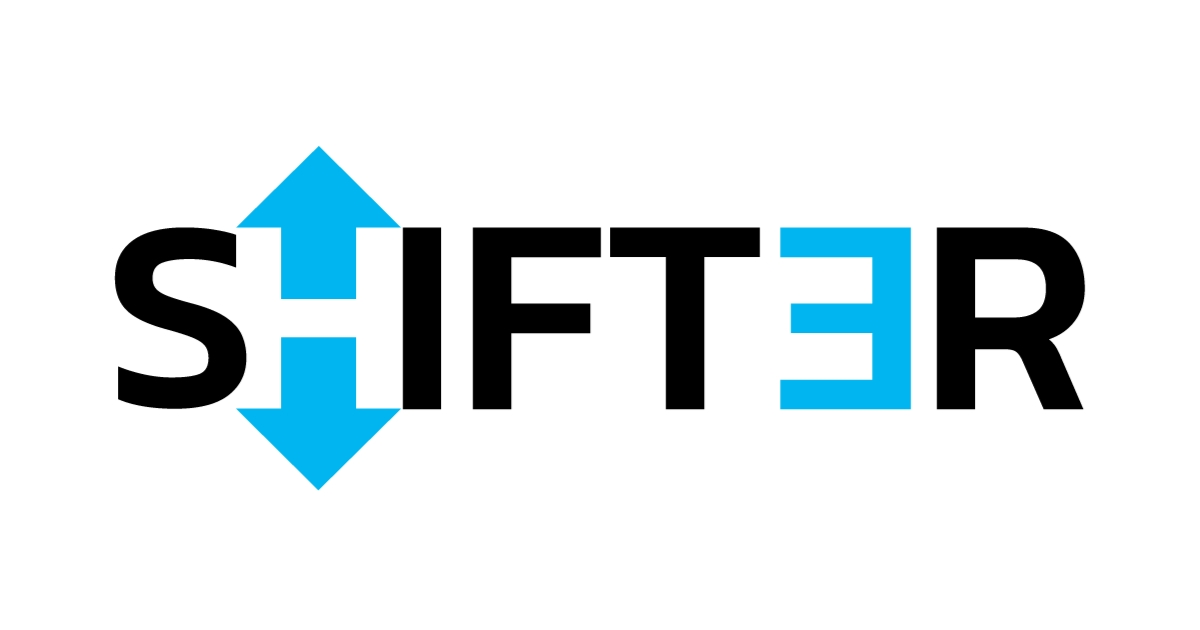
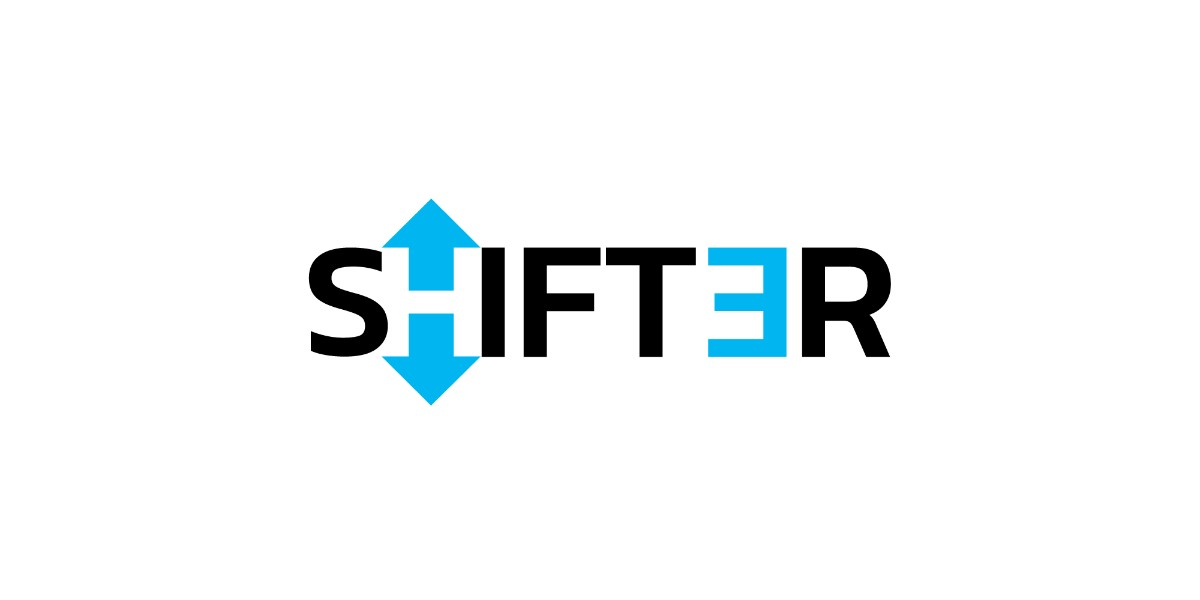
Changed meta image to fit better on the preview cards

Changed region(s): [[0.0925, 0.24, 0.925, 0.78]]

diff --git a/frontend/vite.config.ts b/frontend/vite.config.ts
@@ -9,6 +9,9 @@ export default defineConfig({
         react(),
         tailwindcss(),
     ],
+    server: {
+        allowedHosts: ["cira-odontoblastic-pseudoimpartially.ngrok-free.dev"]
+    }
     // build: {
     //     outDir: '../docs'
     // },
